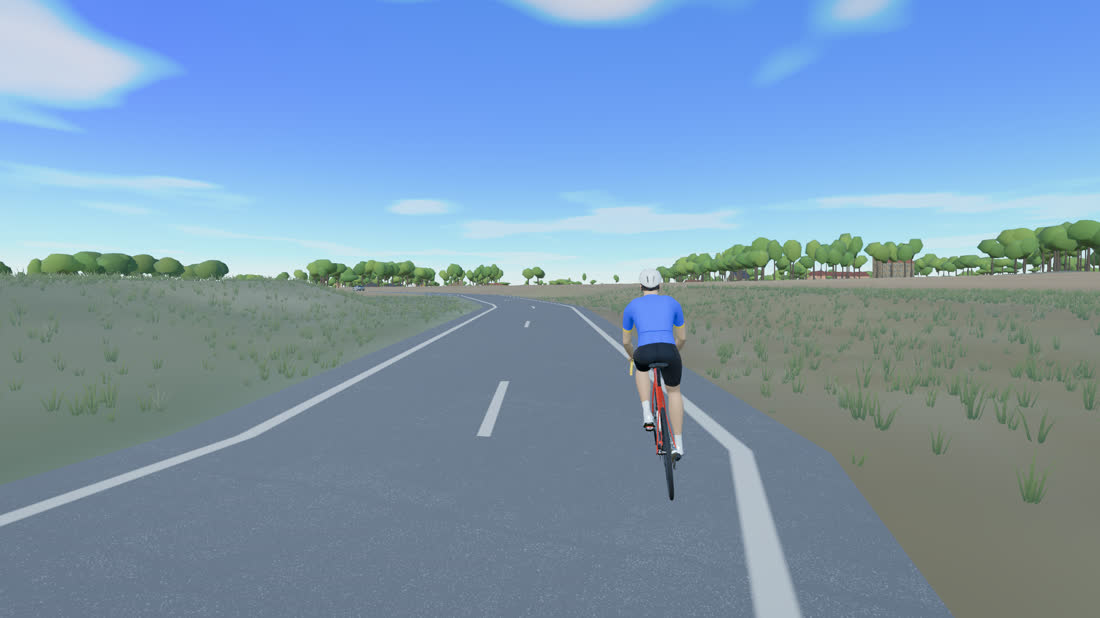
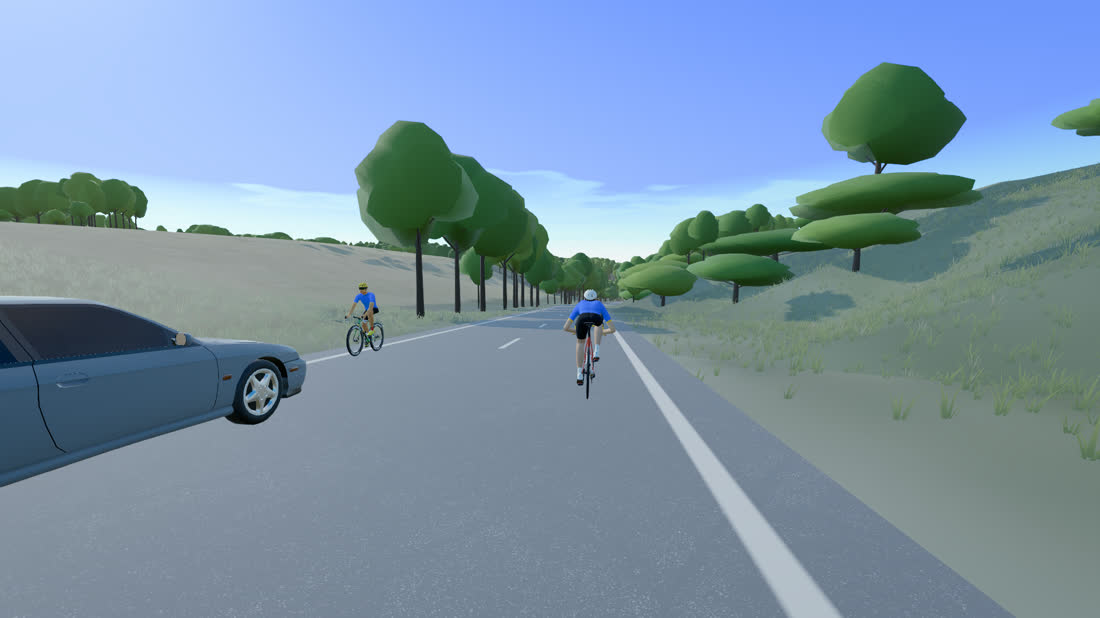
feat(site) : visuels de la page zones recapturés (Tourmalet, Alpe d'Huez, Étretat) ; mascotte retirée de la barre du haut

diff --git a/deploy/site/index.html b/deploy/site/index.html
@@ -20,7 +20,7 @@
 
   <header class="top" id="top">
     <a class="brand" href="/" aria-label="Allez Robert ! — accueil">
-      <img class="brand-robert" src="/site/img/robert.png" alt="" width="26" height="46" />
+      
       <span>Allez <b>Robert</b>&nbsp;!</span>
     </a>
     <p class="brand-tag">Simulateur de vélo d'intérieur · multijoueur · gratuit</p>
@@ -176,7 +176,7 @@
       </header>
 
       <div class="gallery reveal" id="gallery">
-        <figure><img src="/site/img/alpe-real.jpg" alt="Alpe d'Huez" loading="lazy" /><figcaption><b>Alpe d'Huez</b><span id="g-alpe">21 virages</span></figcaption></figure>
+        <figure><img src="/site/img/alpe-zone.jpg" alt="Alpe d'Huez" loading="lazy" /><figcaption><b>Alpe d'Huez</b><span id="g-alpe">21 virages</span></figcaption></figure>
         <figure><img src="/site/img/tourmalet.jpg" alt="Col du Tourmalet" loading="lazy" /><figcaption><b>Tourmalet</b><span id="g-tourmalet">Pyrénées</span></figcaption></figure>
         <figure><img src="/site/img/etretat.jpg" alt="Falaises d'Étretat" loading="lazy" /><figcaption><b>Étretat</b><span id="g-etretat">Côte d'Albâtre</span></figcaption></figure>
         <figure><img src="/site/img/chevreuse.jpg" alt="Vallée de Chevreuse à l'automne" loading="lazy" /><figcaption><b>Chevreuse</b><span id="g-chevreuse">Yvelines</span></figcaption></figure>
